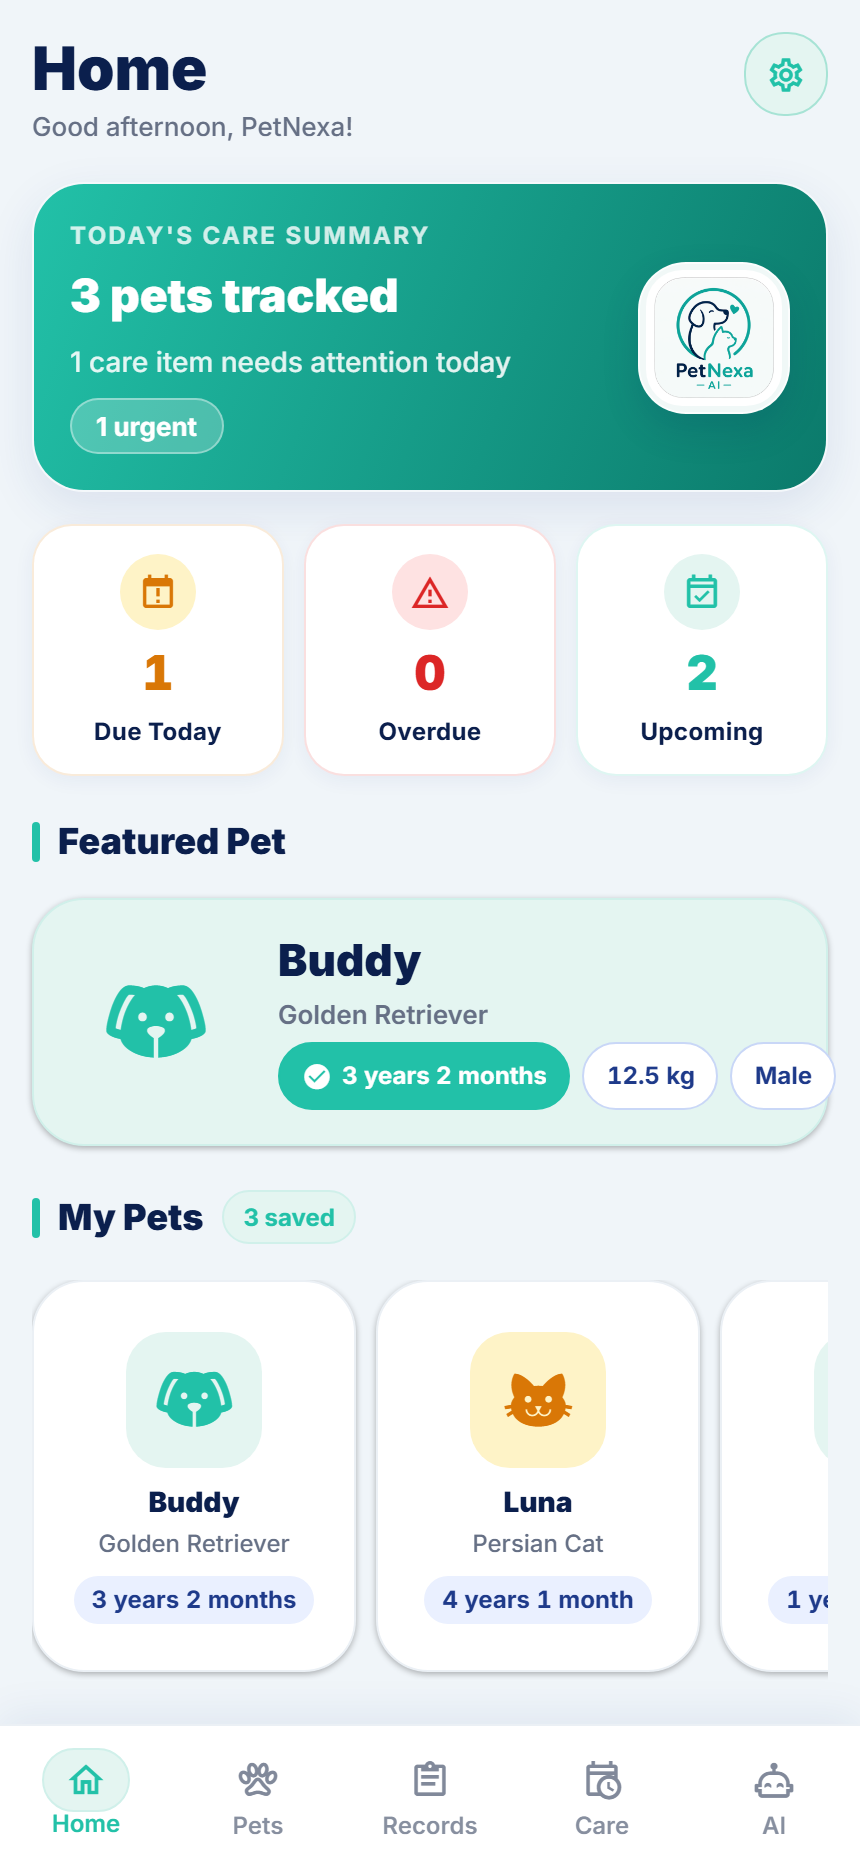
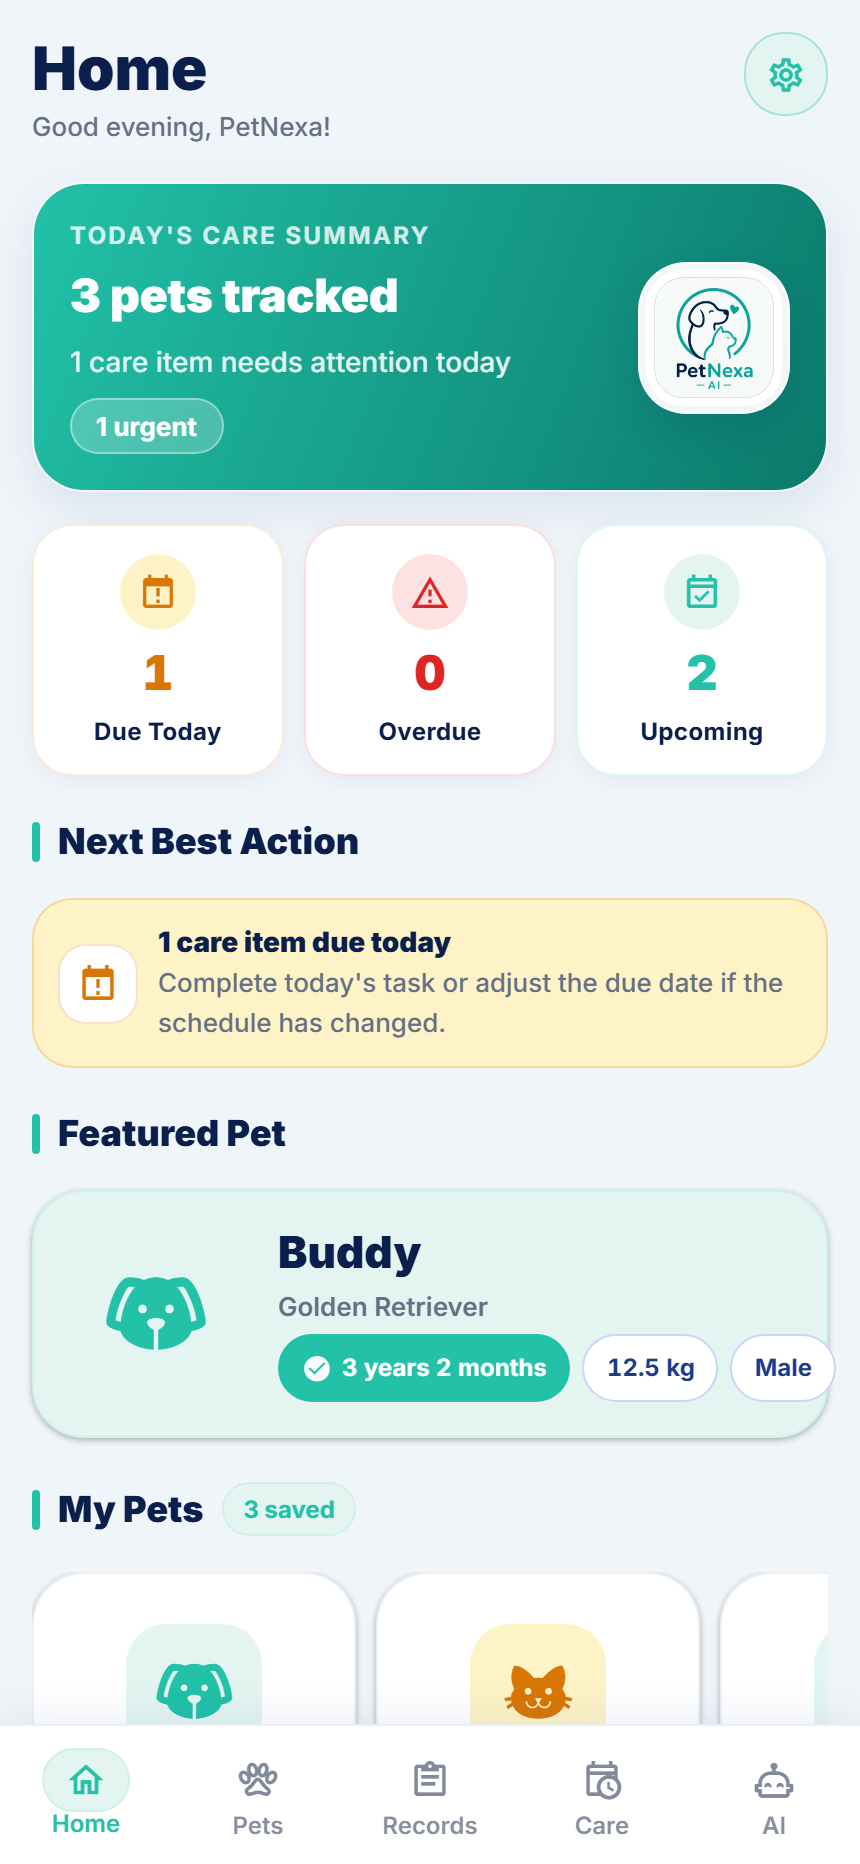
Improve privacy site compliance and screenshots

Changed region(s): [[0.0302, 0.4356, 0.9674, 0.9335], [0.1209, 0.0622, 0.393, 0.0933], [0.8465, 0.8401, 0.9674, 0.9024]]

diff --git a/index.html b/index.html
@@ -8,6 +8,23 @@
       name="description"
       content="Privacy Policy for PetNexa AI, including local-first storage, Home sync, AI guidance, ads, diagnostics, support, backups, and user controls."
     />
+    <link rel="canonical" href="https://dahon19.github.io/petnexa-ai-privacy/" />
+    <meta name="theme-color" content="#071b34" />
+    <meta property="og:type" content="website" />
+    <meta property="og:title" content="PetNexa AI Privacy Policy" />
+    <meta
+      property="og:description"
+      content="Privacy Center for PetNexa AI, covering local-first pet care data, Home sync, AI guidance, ads, diagnostics, support, and user controls."
+    />
+    <meta property="og:url" content="https://dahon19.github.io/petnexa-ai-privacy/" />
+    <meta property="og:image" content="https://dahon19.github.io/petnexa-ai-privacy/image.png" />
+    <meta name="twitter:card" content="summary_large_image" />
+    <meta name="twitter:title" content="PetNexa AI Privacy Policy" />
+    <meta
+      name="twitter:description"
+      content="Privacy Center for PetNexa AI, covering local-first pet care data, Home sync, AI guidance, ads, diagnostics, support, and user controls."
+    />
+    <meta name="twitter:image" content="https://dahon19.github.io/petnexa-ai-privacy/image.png" />
     <link rel="icon" type="image/png" href="./image.png" />
     <link rel="preconnect" href="https://fonts.googleapis.com" />
     <link rel="preconnect" href="https://fonts.gstatic.com" crossorigin />
@@ -16,6 +33,27 @@
       rel="stylesheet"
     />
     <link rel="stylesheet" href="./styles.css" />
+    <script type="application/ld+json">
+      {
+        "@context": "https://schema.org",
+        "@type": "WebPage",
+        "name": "PetNexa AI Privacy Policy",
+        "url": "https://dahon19.github.io/petnexa-ai-privacy/",
+        "description": "Privacy Center for PetNexa AI, covering local-first pet care data, Home sync, AI guidance, ads, diagnostics, support, backups, and user controls.",
+        "dateModified": "2026-06-20",
+        "publisher": {
+          "@type": "Organization",
+          "name": "PetNexa AI",
+          "email": "[email redacted]"
+        },
+        "about": {
+          "@type": "SoftwareApplication",
+          "name": "PetNexa AI",
+          "applicationCategory": "HealthApplication",
+          "operatingSystem": "iOS, Android, Web"
+        }
+      }
+    </script>
   </head>
   <body>
     <a href="#main-content" class="skip-link">Skip to privacy policy</a>
@@ -56,6 +94,7 @@
           </div>
           <div class="meta-info" aria-label="Policy metadata">
             <span>Effective <strong data-effective-date>June 20, 2026</strong></span>
+            <span>Updated <strong>June 20, 2026</strong></span>
             <span>Developer <strong data-developer-name>Dahon</strong></span>
           </div>
           <div class="hero-insights" aria-label="PetNexa AI privacy highlights">
@@ -128,6 +167,11 @@
             <span class="summary-kicker">04</span>
             <h3>Safer local actions</h3>
             <p>Delete actions remain confirmed, and supported local deletions can be undone during the current app session.</p>
+          </article>
+          <article class="summary-card">
+            <span class="summary-kicker">05</span>
+            <h3>Support and data requests</h3>
+            <p>Users can email support for privacy questions, Home data requests, provider-retention questions, and troubleshooting.</p>
           </article>
         </div>
       </section>
@@ -487,6 +531,13 @@
             and depends on the app still having the deleted item available in memory.
           </p>
           <p>
+            For privacy questions, data access requests, or deletion requests that are
+            not handled by local app controls, contact support by email with the subject
+            <strong>PetNexa AI data request</strong>. Include the app version, device
+            platform, care mode, and whether Home Furparent sync is used. Do not attach
+            backups or diagnostic exports unless support specifically asks for them.
+          </p>
+          <p>
             AI credits, rewarded-ad state, authentication records, provider logs, and
             abuse-prevention or service-reliability records may not be fully removable
             through local delete actions.
@@ -536,6 +587,12 @@
               <a href="mailto:[email redacted]" data-contact-link>
                 <span data-contact-email>[email redacted]</span>
               </a>
+            </p>
+            <p>
+              For data requests, use the subject line
+              <strong>PetNexa AI data request</strong> and include only the details
+              needed to identify the issue. Backup files and diagnostics should be sent
+              only if support asks for them.
             </p>
           </div>
         </section>

diff --git a/README.md b/README.md
@@ -11,6 +11,8 @@ Plain static privacy-policy website for PetNexa AI, with a commercial app-showca
 - `screenshots/`
 - `capture-screenshots.mjs`
 - `app-ads.txt`
+- `robots.txt`
+- `sitemap.xml`
 
 ## Before publishing
 
@@ -25,10 +27,13 @@ Plain static privacy-policy website for PetNexa AI, with a commercial app-showca
    - local backup and restore behavior
    - session-only undo behavior for supported local delete actions
    - Help & Support contact flow and user-exported diagnostics
+   - privacy/data request instructions and support subject lines
    - sync status, notification status, profile completeness, and care guidance shown in the app
    - camera/gallery photos for pet profiles and health-record attachments
-3. Host this folder on a public static host.
-4. Use the final public URL wherever Google Play, app stores, or app metadata require a privacy-policy URL.
+3. Keep `index.html`, `robots.txt`, and `sitemap.xml` using the same canonical production URL.
+4. Refresh screenshots after major mobile UI updates, especially Settings, Help & Support, and onboarding changes.
+5. Host this folder on a public static host.
+6. Use the final public URL wherever Google Play, app stores, or app metadata require a privacy-policy URL.
 
 ## Local preview
 